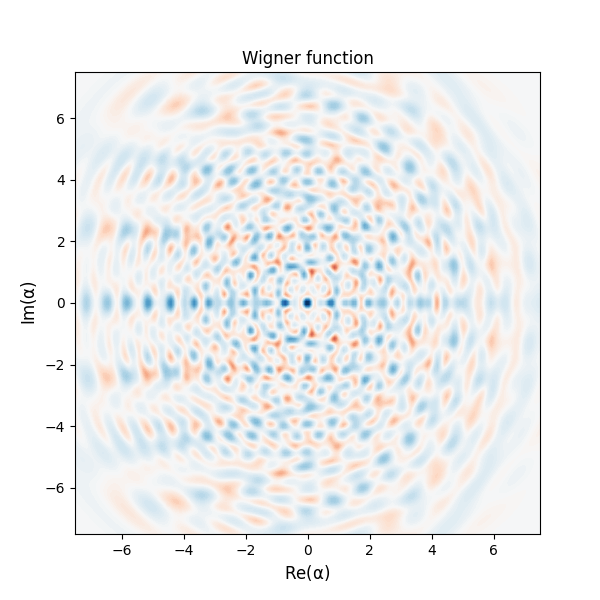
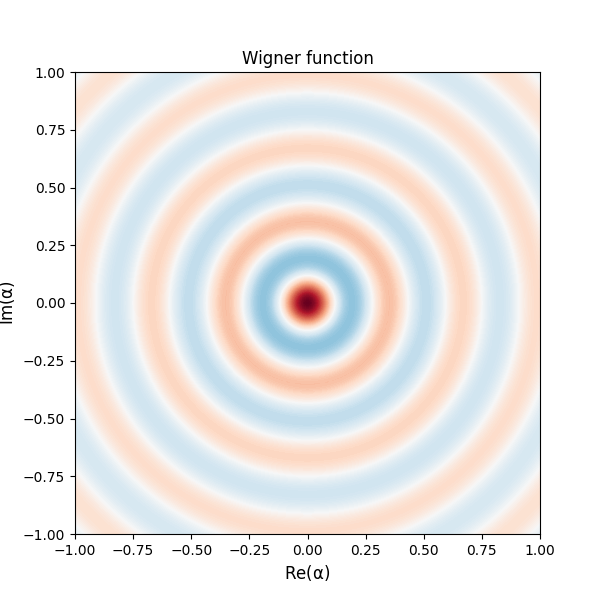
uniformresults

diff --git a/stage_baptiste/homemades/finite_GKP.py b/stage_baptiste/homemades/finite_GKP.py
@@ -42,17 +42,21 @@ def get_gkp(delta, hilbert_dim, peak_range=10):
     js = np.arange(1, peak_range+1, 1)  # considering only the peaks in range of peak_range
     coeffs, eigen_states, states = [],[],[]  # creating the lists to return
     crit = 60
+    # calculating the coefficients c2n
     for n in ns:  # for each eigenstates
+        enveloppe = np.exp(-delta**2 * 2 * n)  # enveloppe
+        herms = hermite(2*n)(0) + 2*sum(
+            np.exp(-js*js*2*pi) * hermite(2*n)(js*2*np.sqrt(pi)))  # second term of multiplication
+        numerator = enveloppe*herms
         if n > 63:
-            bns = np.arange(crit+1,n+1,1)  # taking out big ns to avoid overflow in factorial
-            enveloppe = np.exp(-delta**2 * 2*n)/np.power(2,n,dtype='float')
-            enveloppe /= np.sqrt(float(math.factorial(2*crit)))
+            bns = np.arange(crit+1,n+1,1)  # taking out big ns over crit value to avoid overflow in factorial
+            coeff = numerator/np.power(2,n,dtype='float')  # dividing by pieces (2**n)
+            coeff /= np.sqrt(float(math.factorial(2*crit)))  # dividing by pieces (first part of factorial)
             for bn in bns:
-                enveloppe /= np.sqrt(float(bn))
+                coeff /= np.sqrt(float(bn))  # dividing by pieces (second part of factorial)
         else:
-            enveloppe = np.exp(-delta**2 * 2 * n)/(np.power(2,n,dtype='float') * np.sqrt(float(math.factorial(2*int(n)))))  # first term in multiplication
-        herms = hermite(2*n)(0) + 2*sum(np.exp(-js*js*2*pi)*hermite(2*n)(js*2*np.sqrt(pi)))  # second term
-        coeff, eigen_state = enveloppe*herms, qt.fock(hilbert_dim, n)  # calculating coeff and creating eigen_state
+            coeff = numerator/(np.power(2,n,dtype='float')/np.sqrt(float(math.factorial(2*int(n)))))  # first term in multiplication
+        eigen_state = qt.fock(hilbert_dim, n)  # creating eigen_state
         state = coeff*eigen_state  # eigenstate weighted by coefficient
         coeffs.append(coeff)
         eigen_states.append(eigen_state)

diff --git a/stage_baptiste/projects/Wigner_test_for_finite_GKP/Wigner_test.py b/stage_baptiste/projects/Wigner_test_for_finite_GKP/Wigner_test.py
@@ -13,7 +13,7 @@ from matplotlib import cm
 from matplotlib import pyplot as plt
 from mpl_toolkits.mplot3d import Axes3D
 
-dim = 65
+dim = 25
 gkp = GKP(0,dim)  # gkp with delta = 0
-fig, ax = qt.plot_wigner(gkp.state,method='laguerre')
+fig, ax = qt.plot_wigner(gkp.state,method='laguerre',alpha_max=1)
 plt.savefig(f"Wigner_test_for_finite_GKP/figs/Wigner_0,{dim}")
